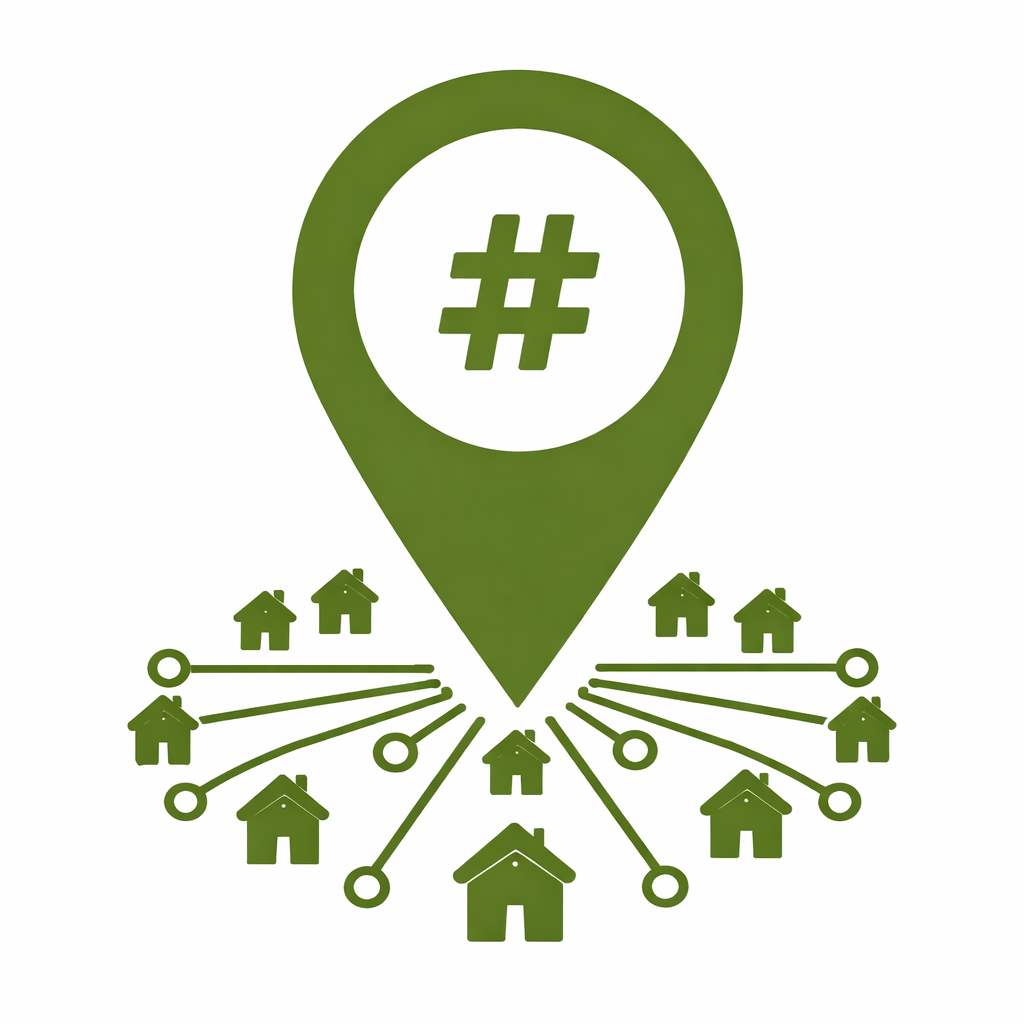
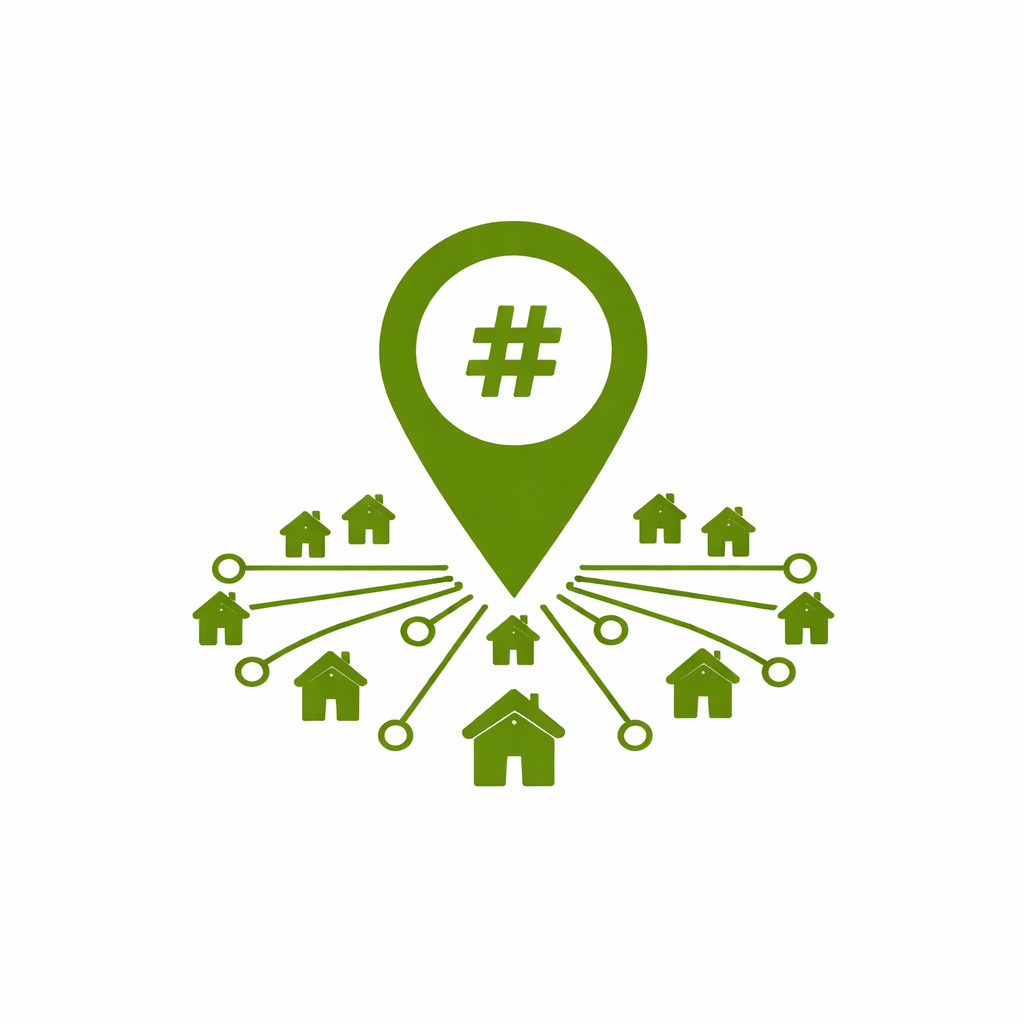
fixes

Changed region(s): [[0.125, 0.0625, 0.875, 0.9375], [0.5938, 0.7812, 0.6875, 0.9062]]

diff --git a/app/_layout.tsx b/app/_layout.tsx
@@ -1,6 +1,6 @@
 import "@/global.css";
-import { getValidAccessToken } from "@/utils/apiClient";
-import { clearTokens } from "@/utils/tokenStorage";
+import { apiGet } from "@/utils/apiClient";
+import { clearTokens, getAccessToken } from "@/utils/tokenStorage";
 import { UserProvider, useUser } from "@/utils/UserContext";
 import { MaterialIcons } from "@expo/vector-icons";
 import {
@@ -17,7 +17,7 @@ import { Drawer } from "expo-router/drawer";
 import * as SplashScreen from "expo-splash-screen";
 import { StatusBar } from "expo-status-bar";
 import { useEffect } from "react";
-import { ActivityIndicator, Alert, Image, Text, TouchableOpacity, View } from "react-native";
+import { ActivityIndicator, Image, Text, TouchableOpacity, View } from "react-native";
 
 const API_BASE_URL = process.env.EXPO_PUBLIC_API_BASE_URL;
 
@@ -31,18 +31,16 @@ function AuthLoader({ children }: { children: React.ReactNode }) {
     async function loadUserProfile() {
       console.log("=== AuthLoader: Starting loadUserProfile ===");
 
-      // getValidAccessToken handles expiry check and auto-refresh
-      const token = await getValidAccessToken();
-      console.log("Valid access token exists:", !!token);
-
-      if (!token) {
-        console.log("No valid access token available");
-        setIsLoading(false);
-        return;
-      }
-
-      // Fetch user profile with valid token
       try {
+        // First check if we have any tokens - if not, user is not logged in
+        const token = await getAccessToken();
+        if (!token) {
+          console.log("No token available, user not logged in");
+          setUser(null);
+          setIsLoading(false);
+          return;
+        }
+
         // Get user location for profile API
         let profileUrl = `${API_BASE_URL}/account/profile`;
         try {
@@ -55,12 +53,8 @@ function AuthLoader({ children }: { children: React.ReactNode }) {
           console.log("Location not available for profile API, using without location");
         }
 
-        const response = await fetch(profileUrl, {
-          method: "GET",
-          headers: {
-            Authorization: `Bearer ${token}`,
-          },
-        });
+        // apiGet handles token validation, refresh, and 401 retry automatically
+        const response = await apiGet(profileUrl);
 
         if (response.ok) {
           const data = await response.json();
@@ -71,17 +65,15 @@ function AuthLoader({ children }: { children: React.ReactNode }) {
           console.log("Profile fetch failed with status:", response.status);
           await clearTokens();
           setUser(null);
-          if (response.status === 401) {
-            Alert.alert(
-              "Session Expired",
-              "Your session has expired. Please log in again.",
-              [{ text: "OK" }]
-            );
-          }
         }
-      } catch (error) {
-        console.error("Failed to load user profile:", error);
-        await clearTokens();
+      } catch (error: any) {
+        // apiGet throws "Authentication required" if no valid token
+        if (error.message?.includes("Authentication required")) {
+          console.log("No valid token available");
+        } else {
+          console.error("Failed to load user profile:", error);
+          await clearTokens();
+        }
         setUser(null);
       } finally {
         setIsLoading(false);

diff --git a/app/IssueForm.tsx b/app/IssueForm.tsx
@@ -85,6 +85,12 @@ export default function IssueForm() {
       } catch (error) {
         console.error("Error uploading image:", error);
         const errorMessage = error instanceof Error ? error.message : "Failed to upload image";
+
+        // Don't show upload failed alert if it's an auth error - apiClient already handles redirect
+        if (errorMessage.includes("Authentication required")) {
+          return;
+        }
+
         setUploadError(errorMessage);
         Alert.alert(
           "Upload Failed",
@@ -191,7 +197,10 @@ export default function IssueForm() {
       ]);
     } catch (error) {
       const errorMessage = error instanceof Error ? error.message : "Failed to report issue";
-      Alert.alert("Error", errorMessage);
+      // Don't show error alert if it's an auth error - apiClient already handles redirect
+      if (!errorMessage.includes("Authentication required")) {
+        Alert.alert("Error", errorMessage);
+      }
     } finally {
       setIsSubmitting(false);
     }
